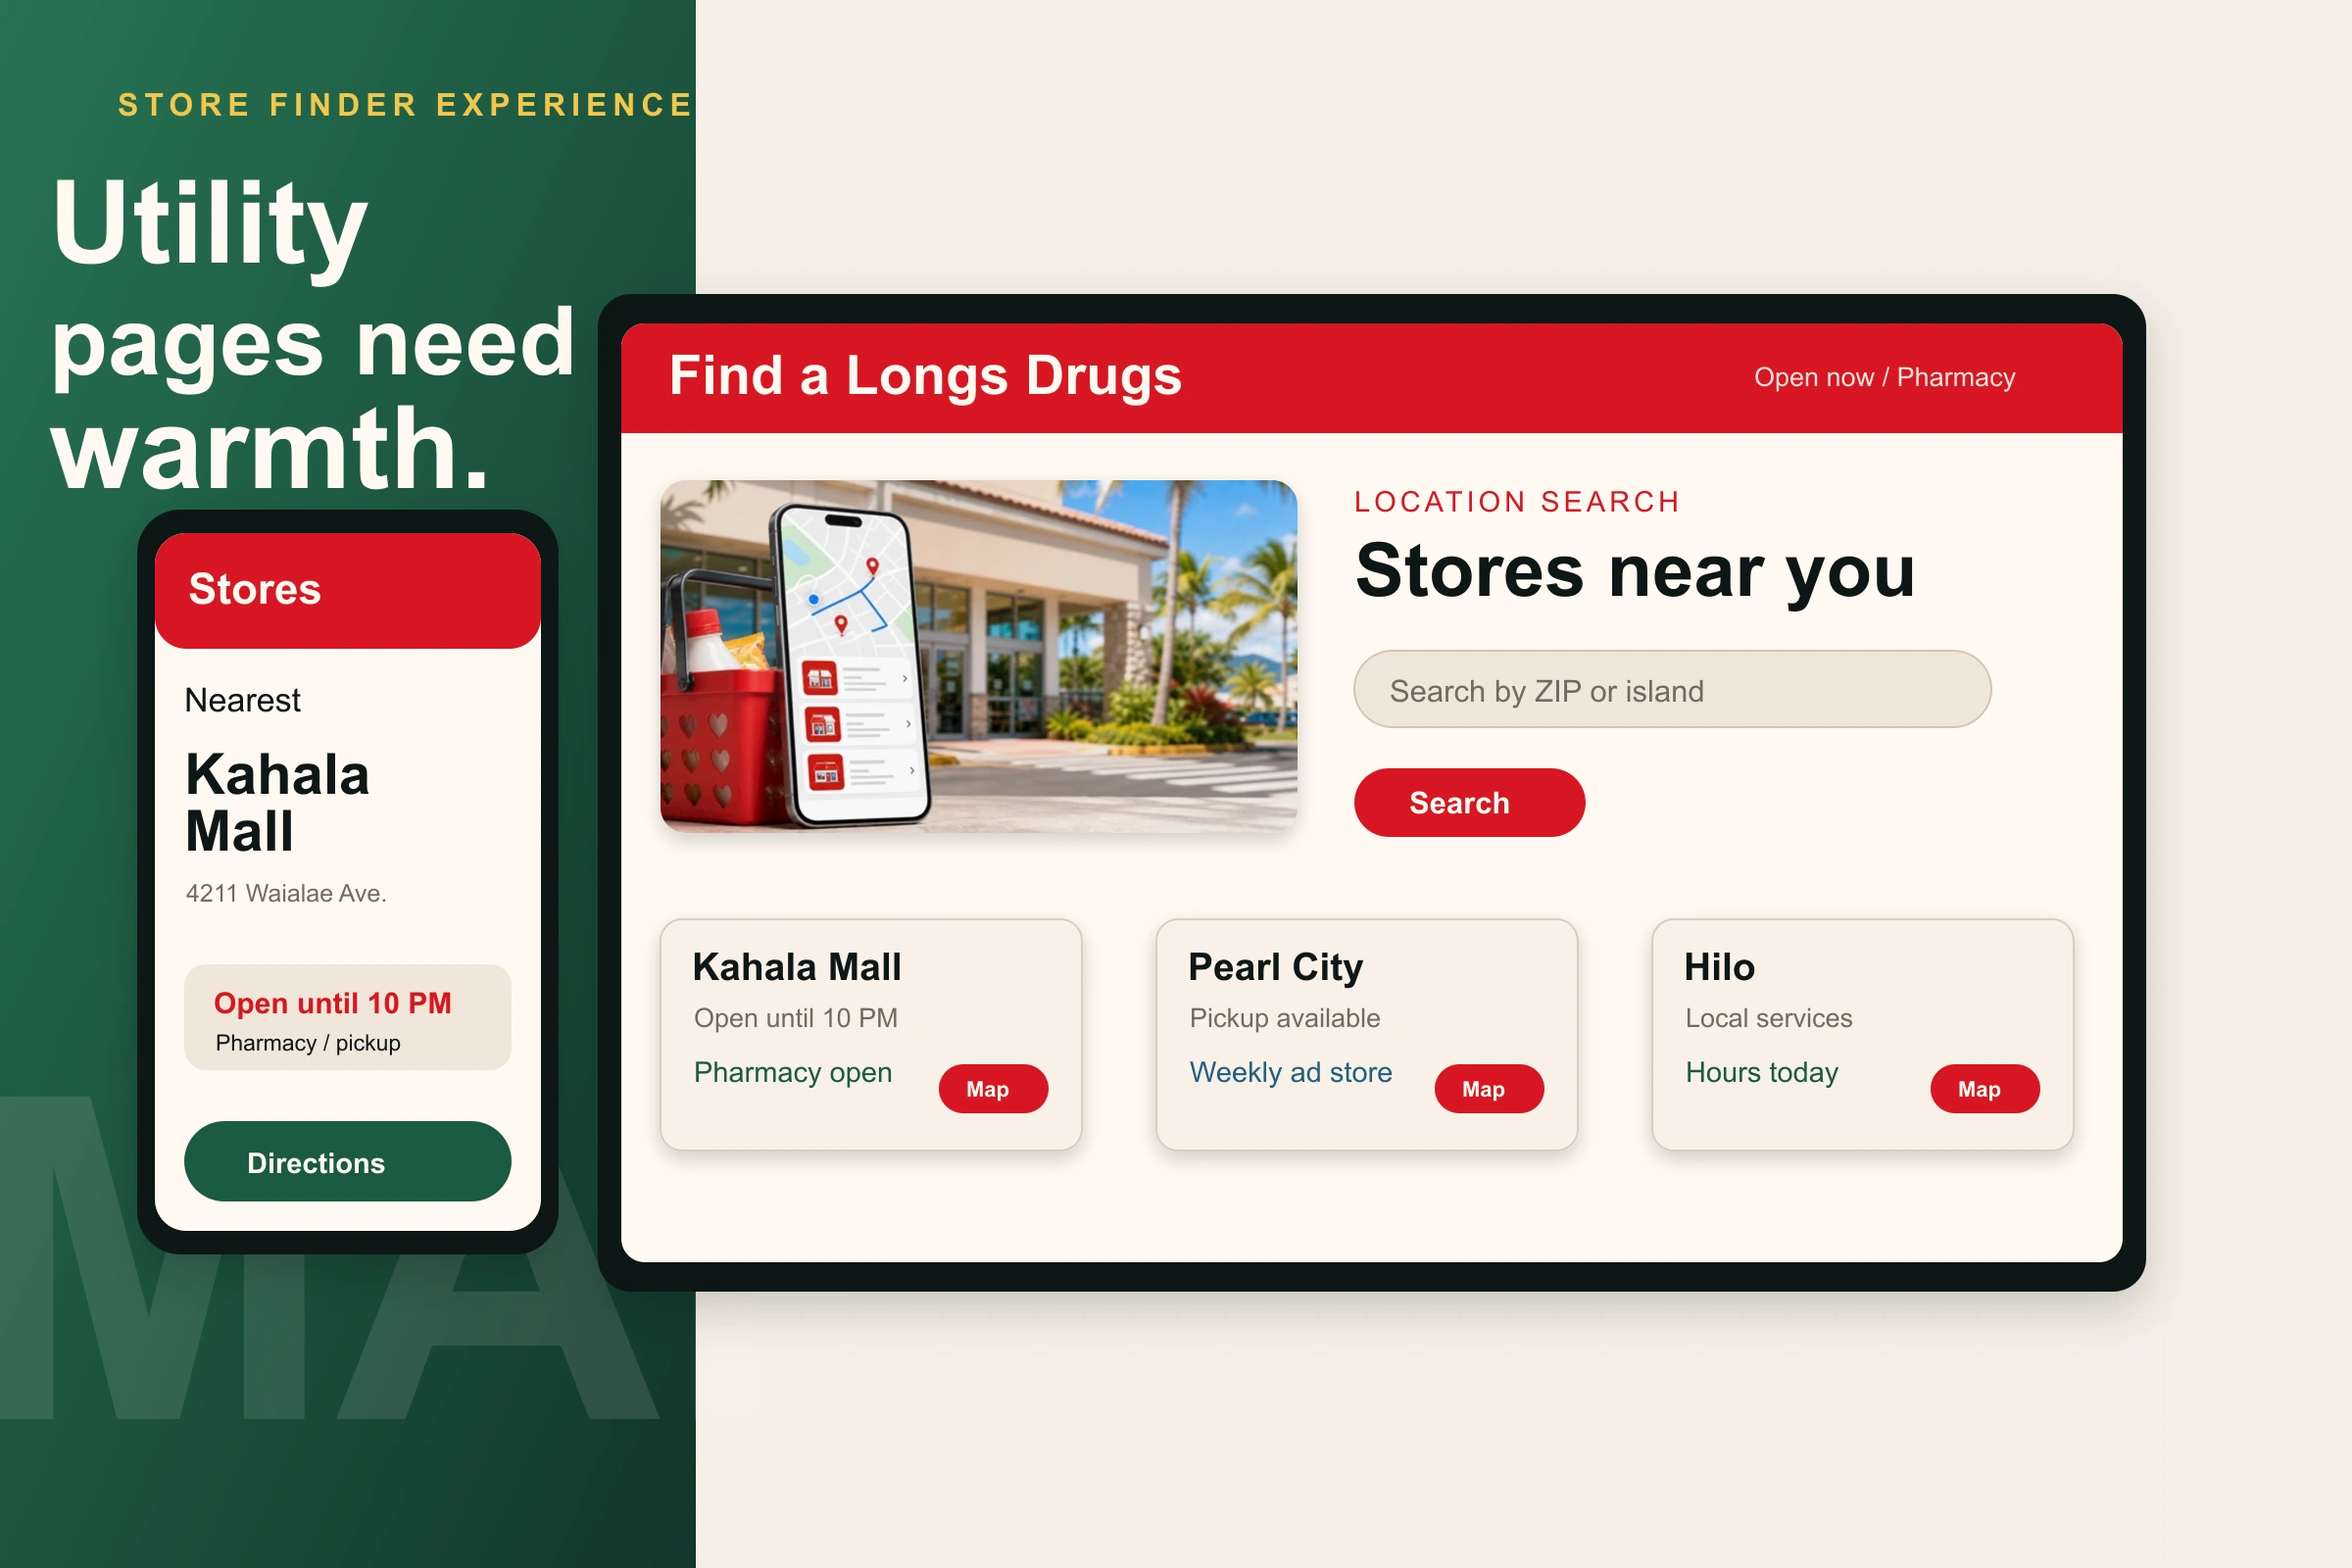
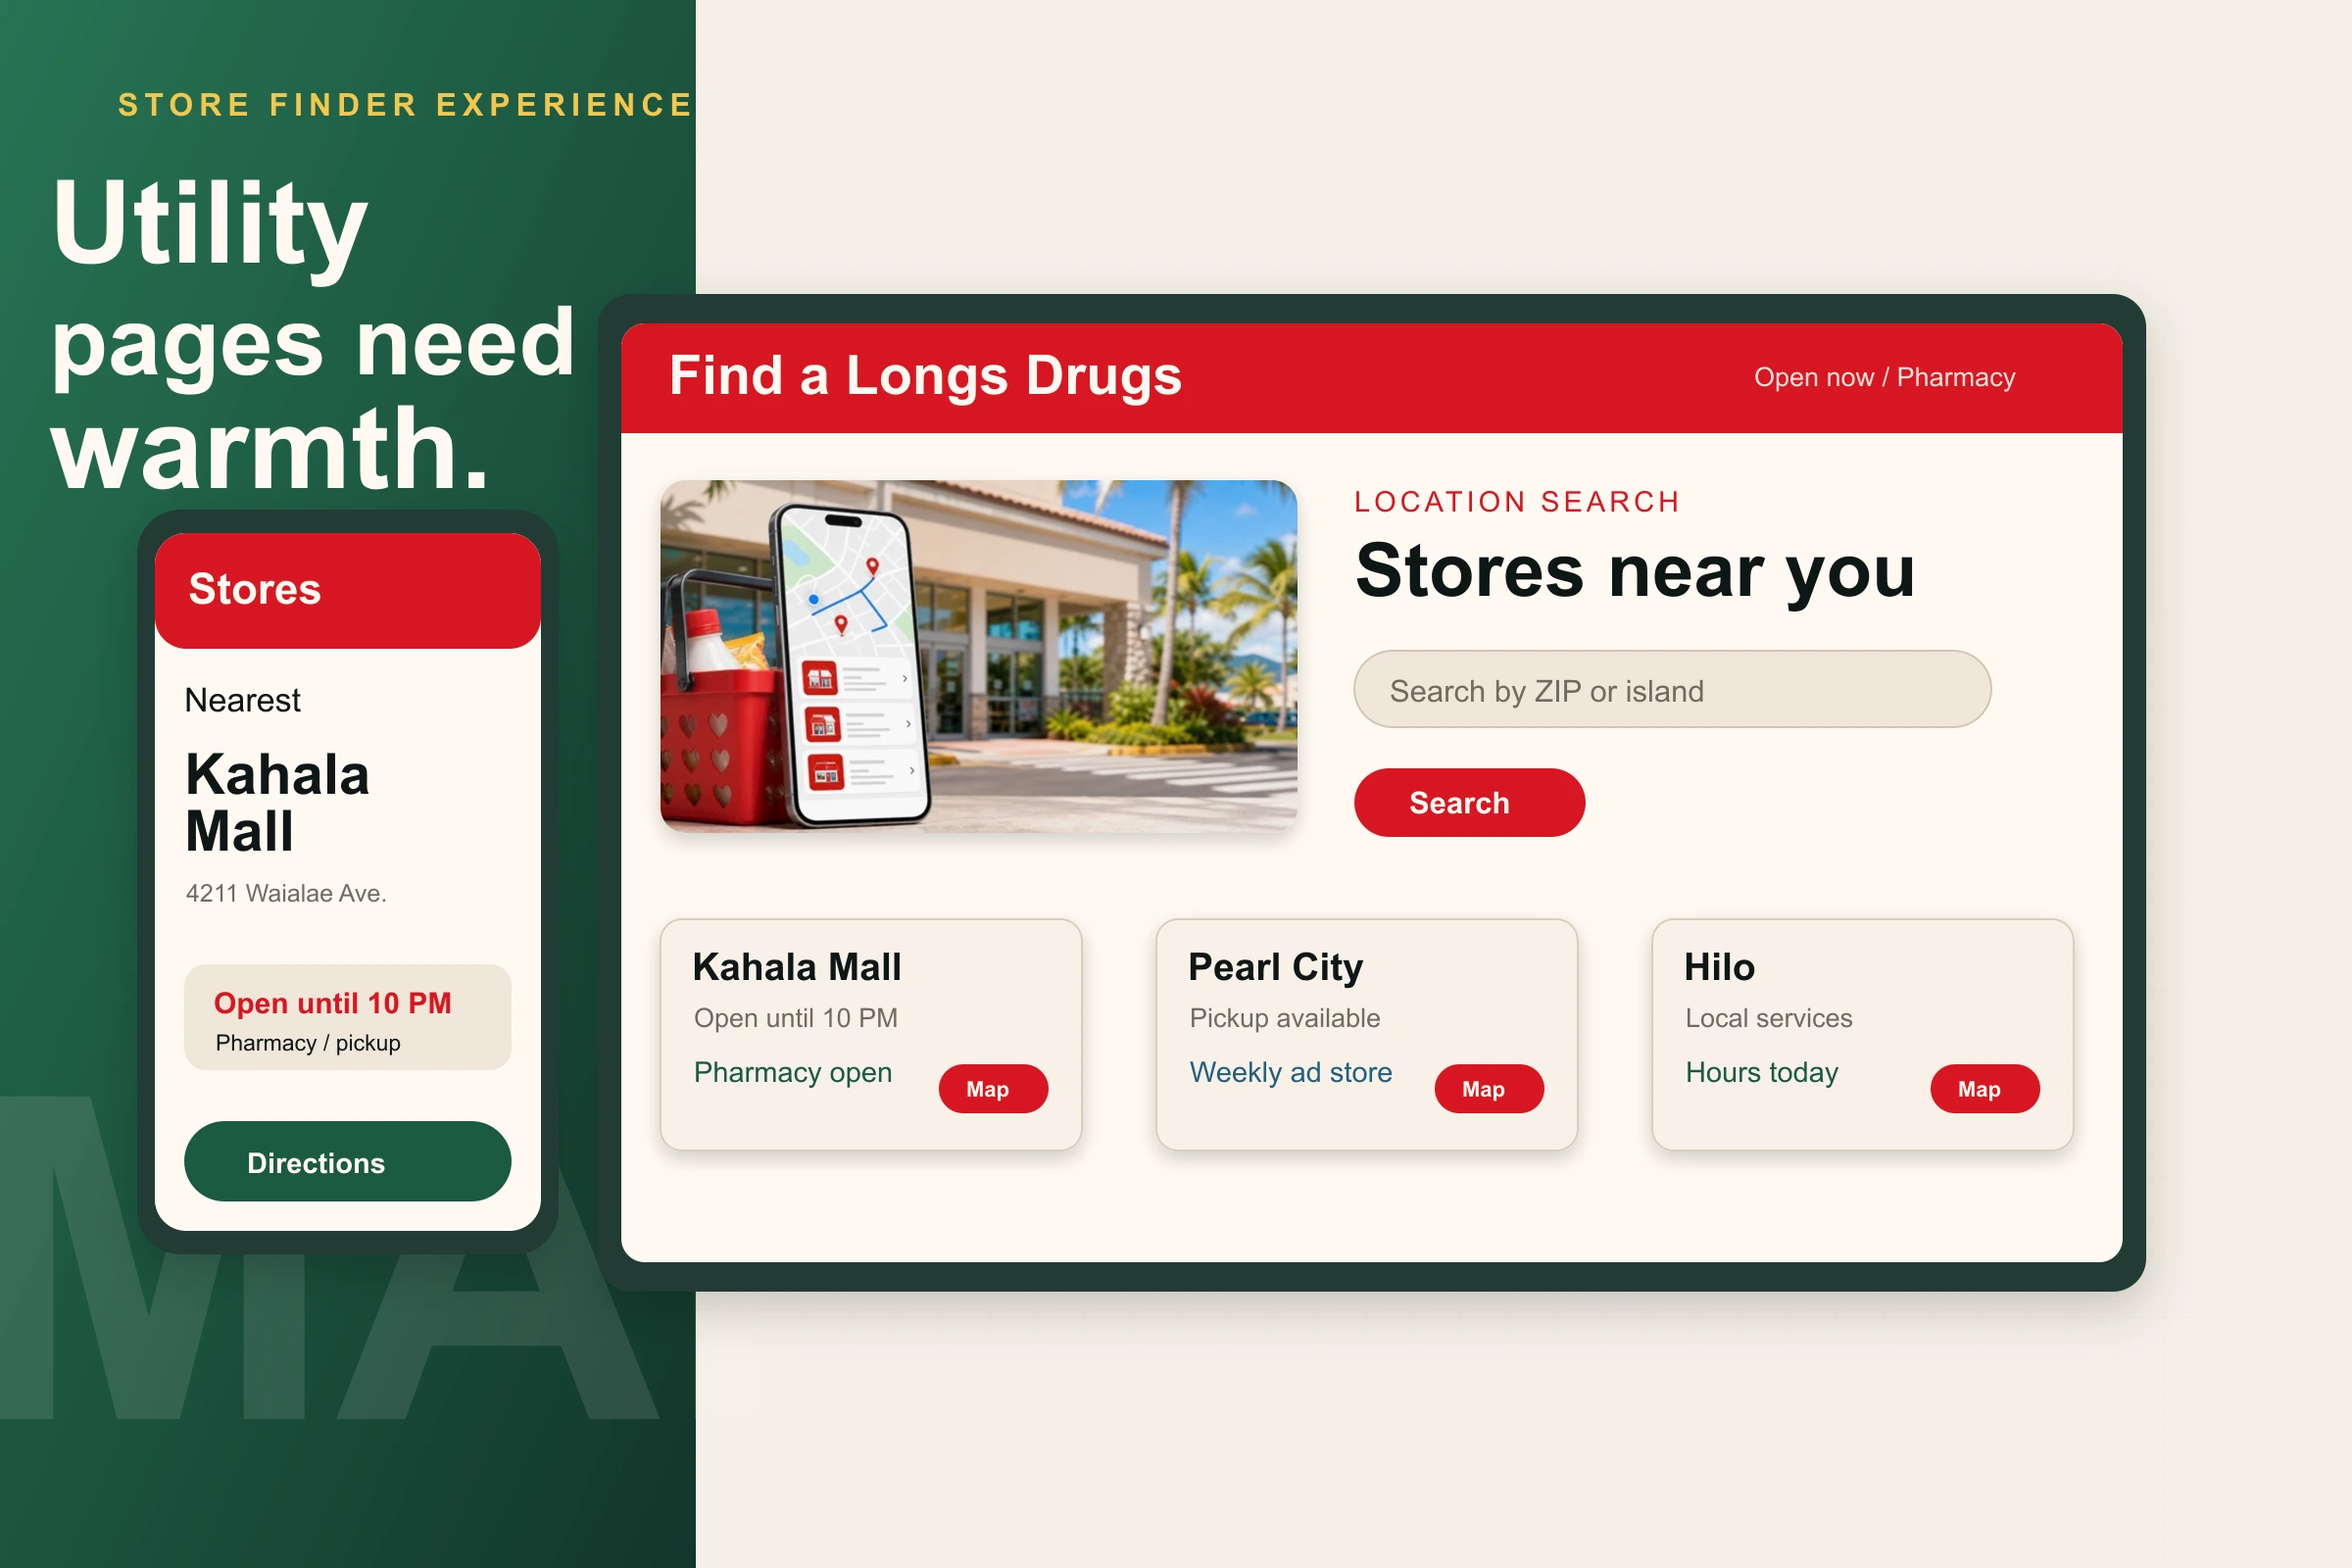
Soften Longs Sans study presentation

Changed region(s): [[0.0312, 0.1875, 0.9375, 0.8438]]

diff --git a/src/styles/global.css b/src/styles/global.css
@@ -1436,7 +1436,8 @@ main {
 .project--longs-sans .project-chapter__media,
 .project--longs-sans .project-visual-strip__item,
 .project--longs-sans .project-gallery__item {
-  background: #151816;
+  background: linear-gradient(135deg, #fffaf2, #eadfce);
+  box-shadow: inset 0 0 0 1px rgba(158, 20, 25, 0.14);
 }
 
 .project--longs-sans .project-hero__media,
@@ -1469,14 +1470,14 @@ main {
   min-height: 0;
   border-radius: 6px;
   object-fit: contain;
-  background: #151816;
+  background: #f7f1e6;
 }
 
 .project--longs-sans .project-gallery__item img {
   height: auto;
   border-radius: 6px;
   object-fit: contain;
-  background: #151816;
+  background: #f7f1e6;
 }
 
 .project--longs-sans .project-chapter__media figcaption,
